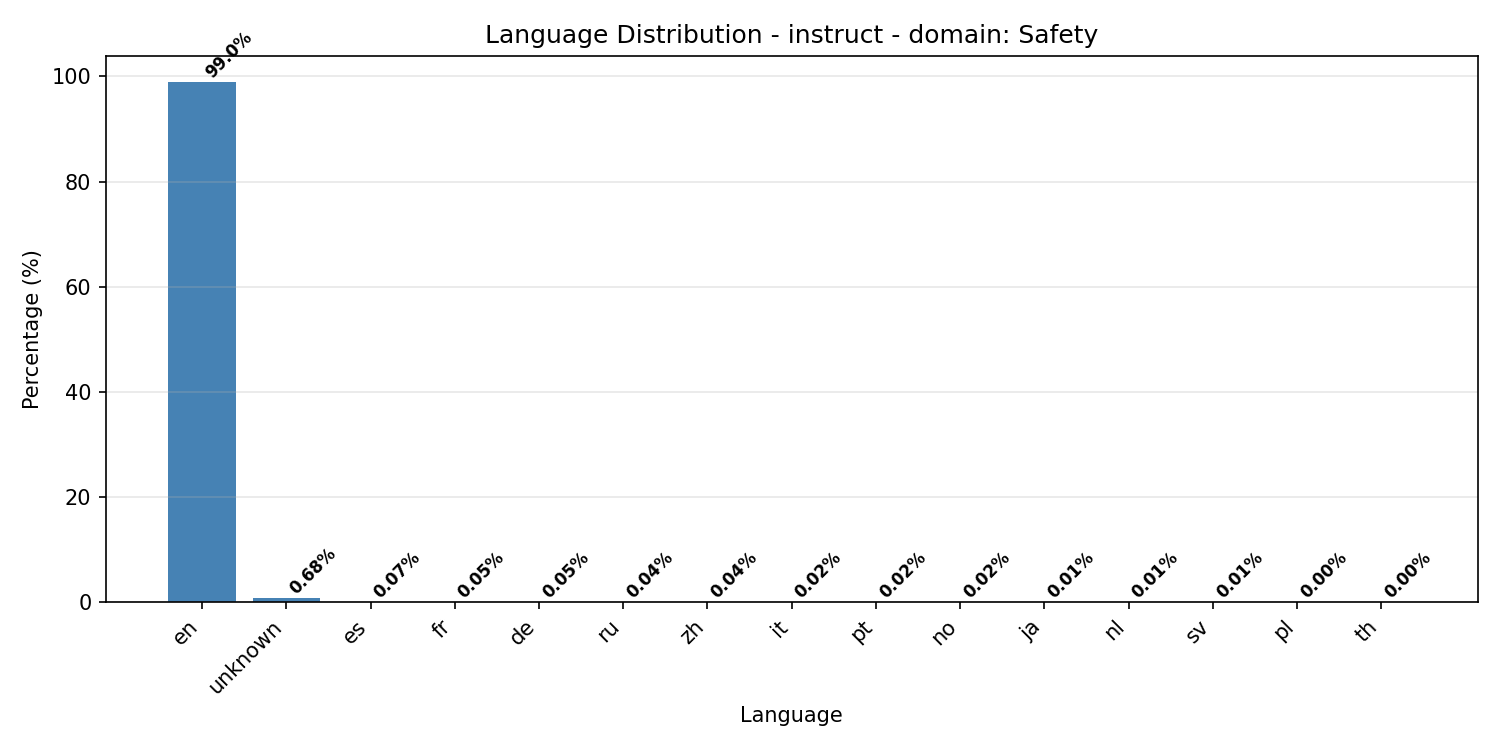
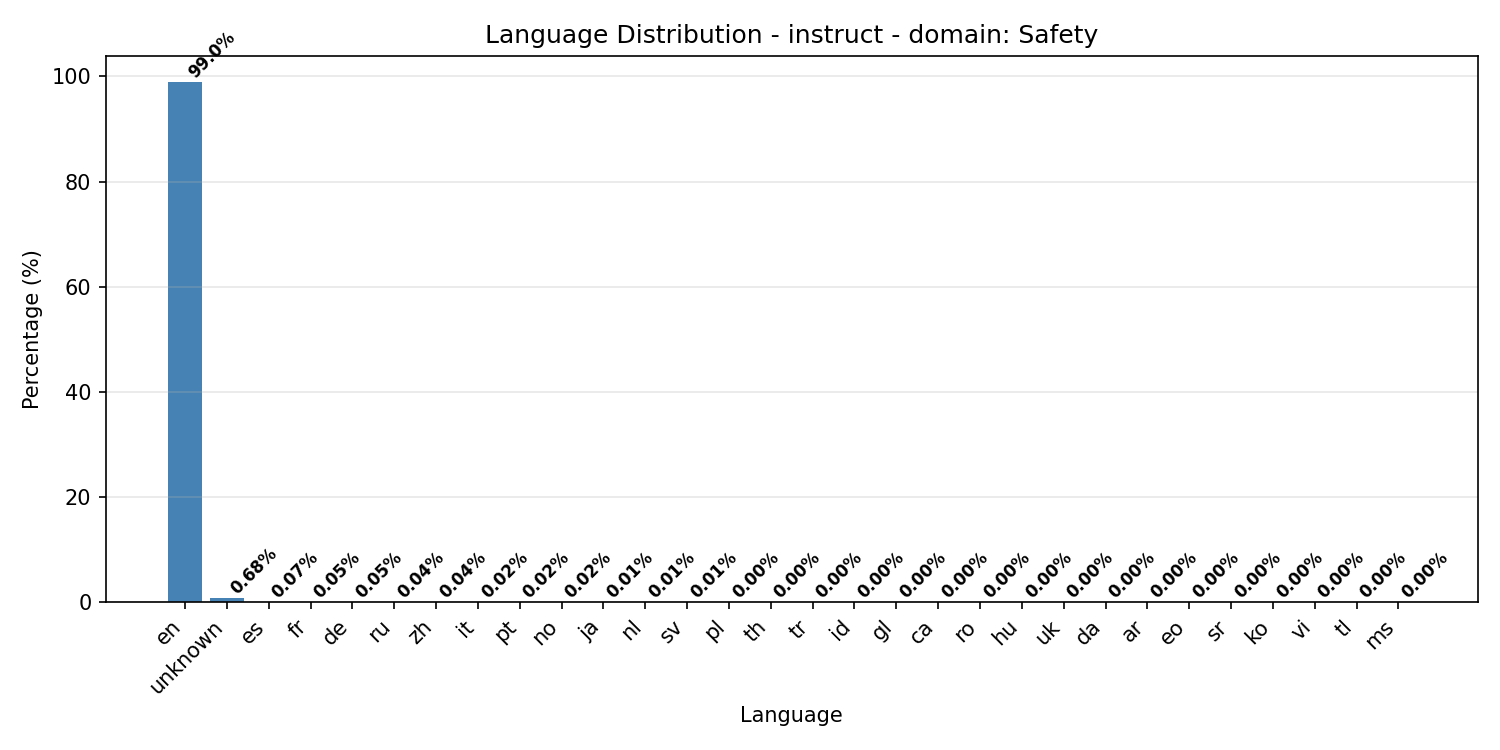
Show top 30 languages + other

Changed region(s): [[0.092, 0.0307, 0.9813, 0.92]]

diff --git a/oellm/analysis/dolci_distribution/detect_language_distribution.py b/oellm/analysis/dolci_distribution/detect_language_distribution.py
@@ -28,7 +28,7 @@ DATASET_NAMES = {
 }
 
 # Top N languages to show in plots; rest grouped as "other"
-TOP_N_LANGUAGES = 15
+TOP_N_LANGUAGES = 30
 
 
 def extract_user_text(example: dict) -> dict:
